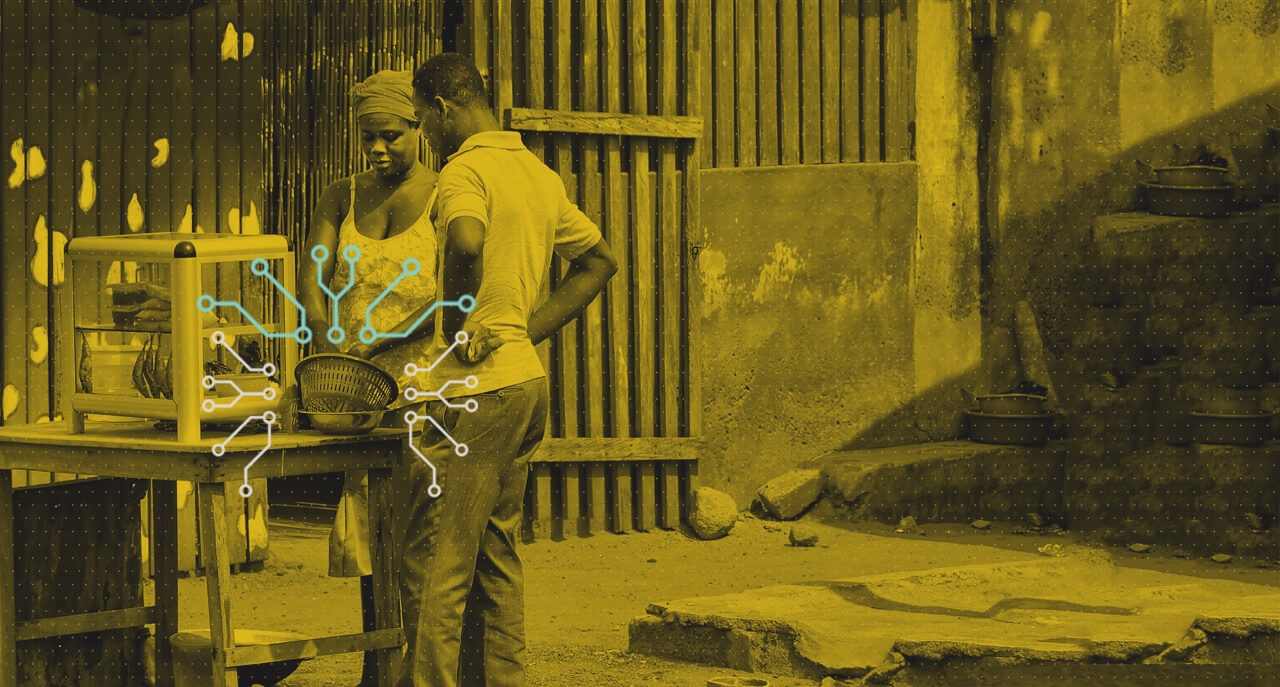
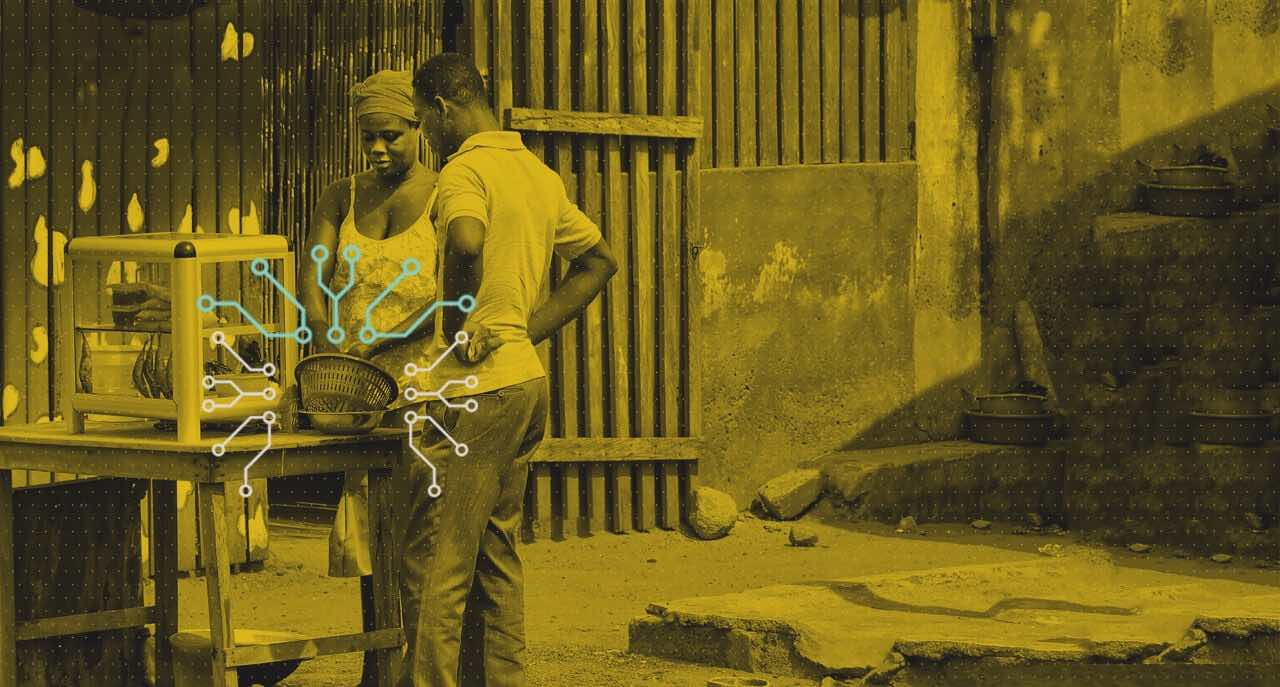
Reduces images even more

diff --git a/app/assets/stylesheets/layouts/homepage/l-dataportal-resume.scss b/app/assets/stylesheets/layouts/homepage/l-dataportal-resume.scss
@@ -2,7 +2,7 @@
   padding: 25px 0 25px;
   background-repeat: no-repeat;
   background-position: center;
-  background: asset-url('homepage/data_portal_resume_bg.png');
+  background: asset-url('homepage/data_portal_resume_bg.jpg');
   background-size: cover;
 
   @media#{$mq-tablet} {
